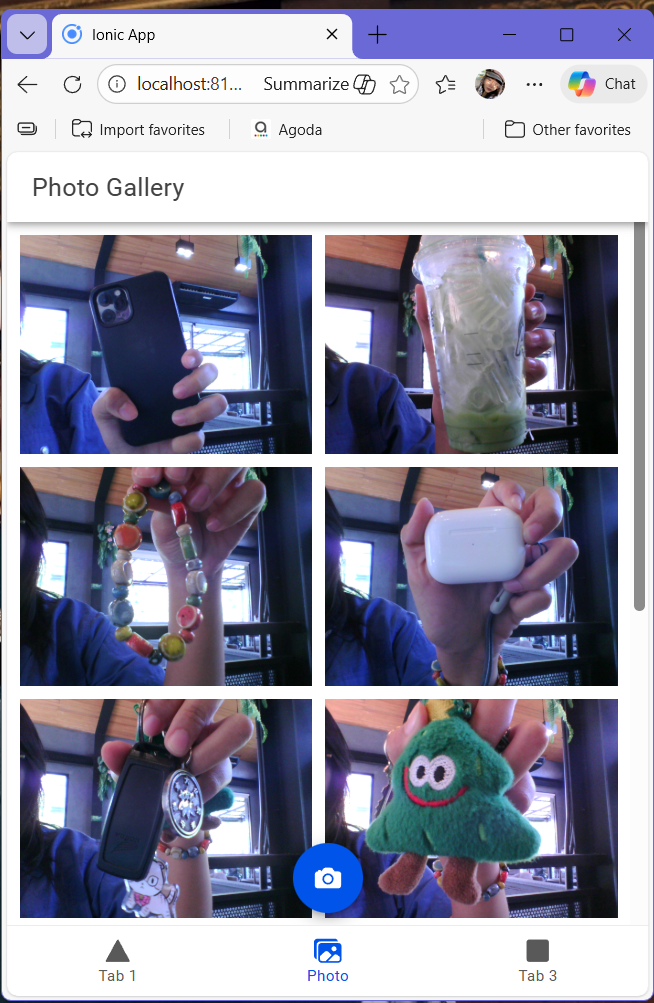
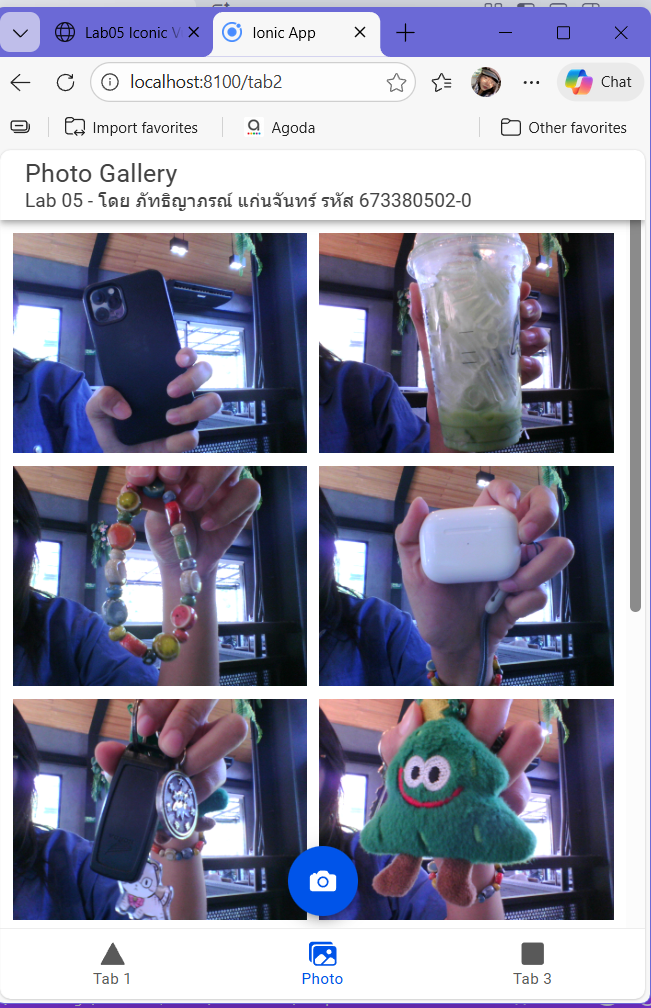
fix

diff --git a/docs/lab05.html b/docs/lab05.html
@@ -238,17 +238,17 @@
         <div class="gallery-container">
             <div class="img-wrapper">
                 <img src="lab5_1.png" alt="Login Screen" class="gallery-img">
-                <div class="caption">Login Interface</div>
+                <div class="caption">Android Studio</div>
             </div>
             
             <div class="img-wrapper">
                 <img src="lab5_2.png" alt="Home Screen" class="gallery-img">
-                <div class="caption">Dashboard</div>
+                <div class="caption">Camera</div>
             </div>
             
             <div class="img-wrapper">
                 <img src="lab5_3.png" alt="Settings Screen" class="gallery-img">
-                <div class="caption">Settings Menu</div>
+                <div class="caption">Saving page</div>
             </div>
 
           
